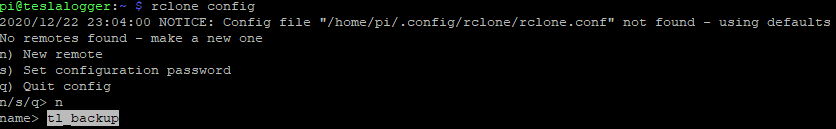
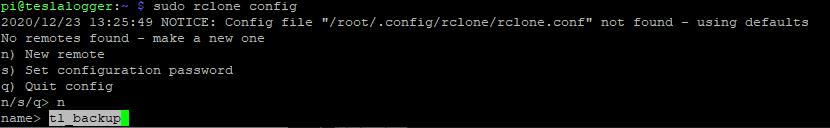
HowTo: upload backups to GoogleDrive

diff --git a/backup_to_google_drive.md b/backup_to_google_drive.md
@@ -1,37 +1,38 @@
 # HowTo: upload TeslaLogger backups to Google Drive automaticaly
 
-1. connect via ssh to teslalogger
-2. run `rclone config`
-3. create connection (e.g.: "tl_backup") and click **ENTER**
+- Install *rclone* if not installed: `sudo apt-get install -y rclone`
+- connect via ssh to teslalogger
+- run `sudo rclone config`
+- create connection (e.g.: "tl_backup") and click **ENTER**
 ![Image](https://raw.githubusercontent.com/bassmaster187/TeslaLogger/master/TeslaLogger/screenshots/backup_gdrive1.png)
-4. find number list number for Google Drive, enter it and click **ENTER**
+- find number list number for Google Drive, enter it and click **ENTER**
 ![Image](https://raw.githubusercontent.com/bassmaster187/TeslaLogger/master/TeslaLogger/screenshots/backup_gdrive2.png)
 ![Image](https://raw.githubusercontent.com/bassmaster187/TeslaLogger/master/TeslaLogger/screenshots/backup_gdrive3.png)
-5. **ENTER** for *client_id* and *client_secret*
+- **ENTER** for *client_id* and *client_secret*
 ![Image](https://raw.githubusercontent.com/bassmaster187/TeslaLogger/master/TeslaLogger/screenshots/backup_gdrive4.png)
-6. **1** and **ENTER** for *scope* and **ENTER** for *root_folder_id*:
+- **1** and **ENTER** for *scope* and **ENTER** for *root_folder_id*
 ![Image](https://raw.githubusercontent.com/bassmaster187/TeslaLogger/master/TeslaLogger/screenshots/backup_gdrive5.png)
-7. **ENTER** for *service_account_file*, **n** for *Use auto config*
+- **ENTER** for *service_account_file*, **n** for *Use auto config*
 ![Image](https://raw.githubusercontent.com/bassmaster187/TeslaLogger/master/TeslaLogger/screenshots/backup_gdrive6.png)
-8. Copy and paste diplayed link in browser. Login with you Google Account and allow new connection:
+- Copy and paste diplayed link in browser. Login with you Google Account and allow new connection:
 ![Image](https://raw.githubusercontent.com/bassmaster187/TeslaLogger/master/TeslaLogger/screenshots/backup_gdrive7.png)
-9. key will be shown in browser, copy it with "copy-button", paste into command line window and press **ENTER** and one more **ENTER**:
+- key will be shown in browser, copy it with "copy-button", paste into command line window and press **ENTER** and one more **ENTER**:
 ![Image](https://raw.githubusercontent.com/bassmaster187/TeslaLogger/master/TeslaLogger/screenshots/backup_gdrive8.png)
-10. now you see a settings file with token, click **ENTER**
+- now you see a settings file with token, click **ENTER**
 ![Image](https://raw.githubusercontent.com/bassmaster187/TeslaLogger/master/TeslaLogger/screenshots/backup_gdrive9.png)
-11. end than **q** to exit setup
-12. open nano: `nano /etc/teslalogger/my-backup.sh` and paste this:
+- end than **q** to exit setup
+- open nano: `nano /etc/teslalogger/my-backup.sh` and paste this:
 ```
 #!/bin/bash
 
 /usr/bin/rclone copy --update --verbose --transfers 3 --contimeout 60s --timeout 300s --retries 3 --low-level-retries 10 --stats 1s "/etc/teslalogger/backup" "tl_backup:TeslaLoggerBackup"
 ```
 
-13. with this command we will save all backup files to *tl_backup* connection we created in step 3 in folder "TeslaLoggerBackup", change it for you needs
-14. save file by clicking **CTRL+X**, then y and **ENTER**
-15. make it executable: `chmod +x /etc/teslalogger/my-backup.sh`
-16. try if it woks: `/etc/teslalogger/my-backup.sh`
-17. if you have alot of backups it will take alot time first run... Success looks like this:
+- with this command we will save all backup files to *tl_backup* connection we created in previous step into folder "TeslaLoggerBackup", change it for you needs
+- save file by clicking **CTRL+X**, then y and **ENTER**
+- make it executable: `chmod +x /etc/teslalogger/my-backup.sh`
+- try if it woks: `/etc/teslalogger/my-backup.sh`
+- if you have alot of backups it will take a long time on first run... Success looks like this:
 ![Image](https://raw.githubusercontent.com/bassmaster187/TeslaLogger/master/TeslaLogger/screenshots/backup_gdrive10.png)
-18. now go back to nano: `nano /etc/teslalogger/my-backup.sh` and remove **--verbose**, than save file again (**CTRL+X**, **y**, **ENTER**)
-19. ***YOU ARE DONE*** :) After each new backup, TeslaLogger will run "my-backup.sh" automaticaly.
+- now go back to nano: `nano /etc/teslalogger/my-backup.sh` and remove **--verbose**, than save file again (**CTRL+X**, **y**, **ENTER**)
+- ***YOU ARE DONE*** :) After each new backup, TeslaLogger will run "my-backup.sh" automaticaly.
